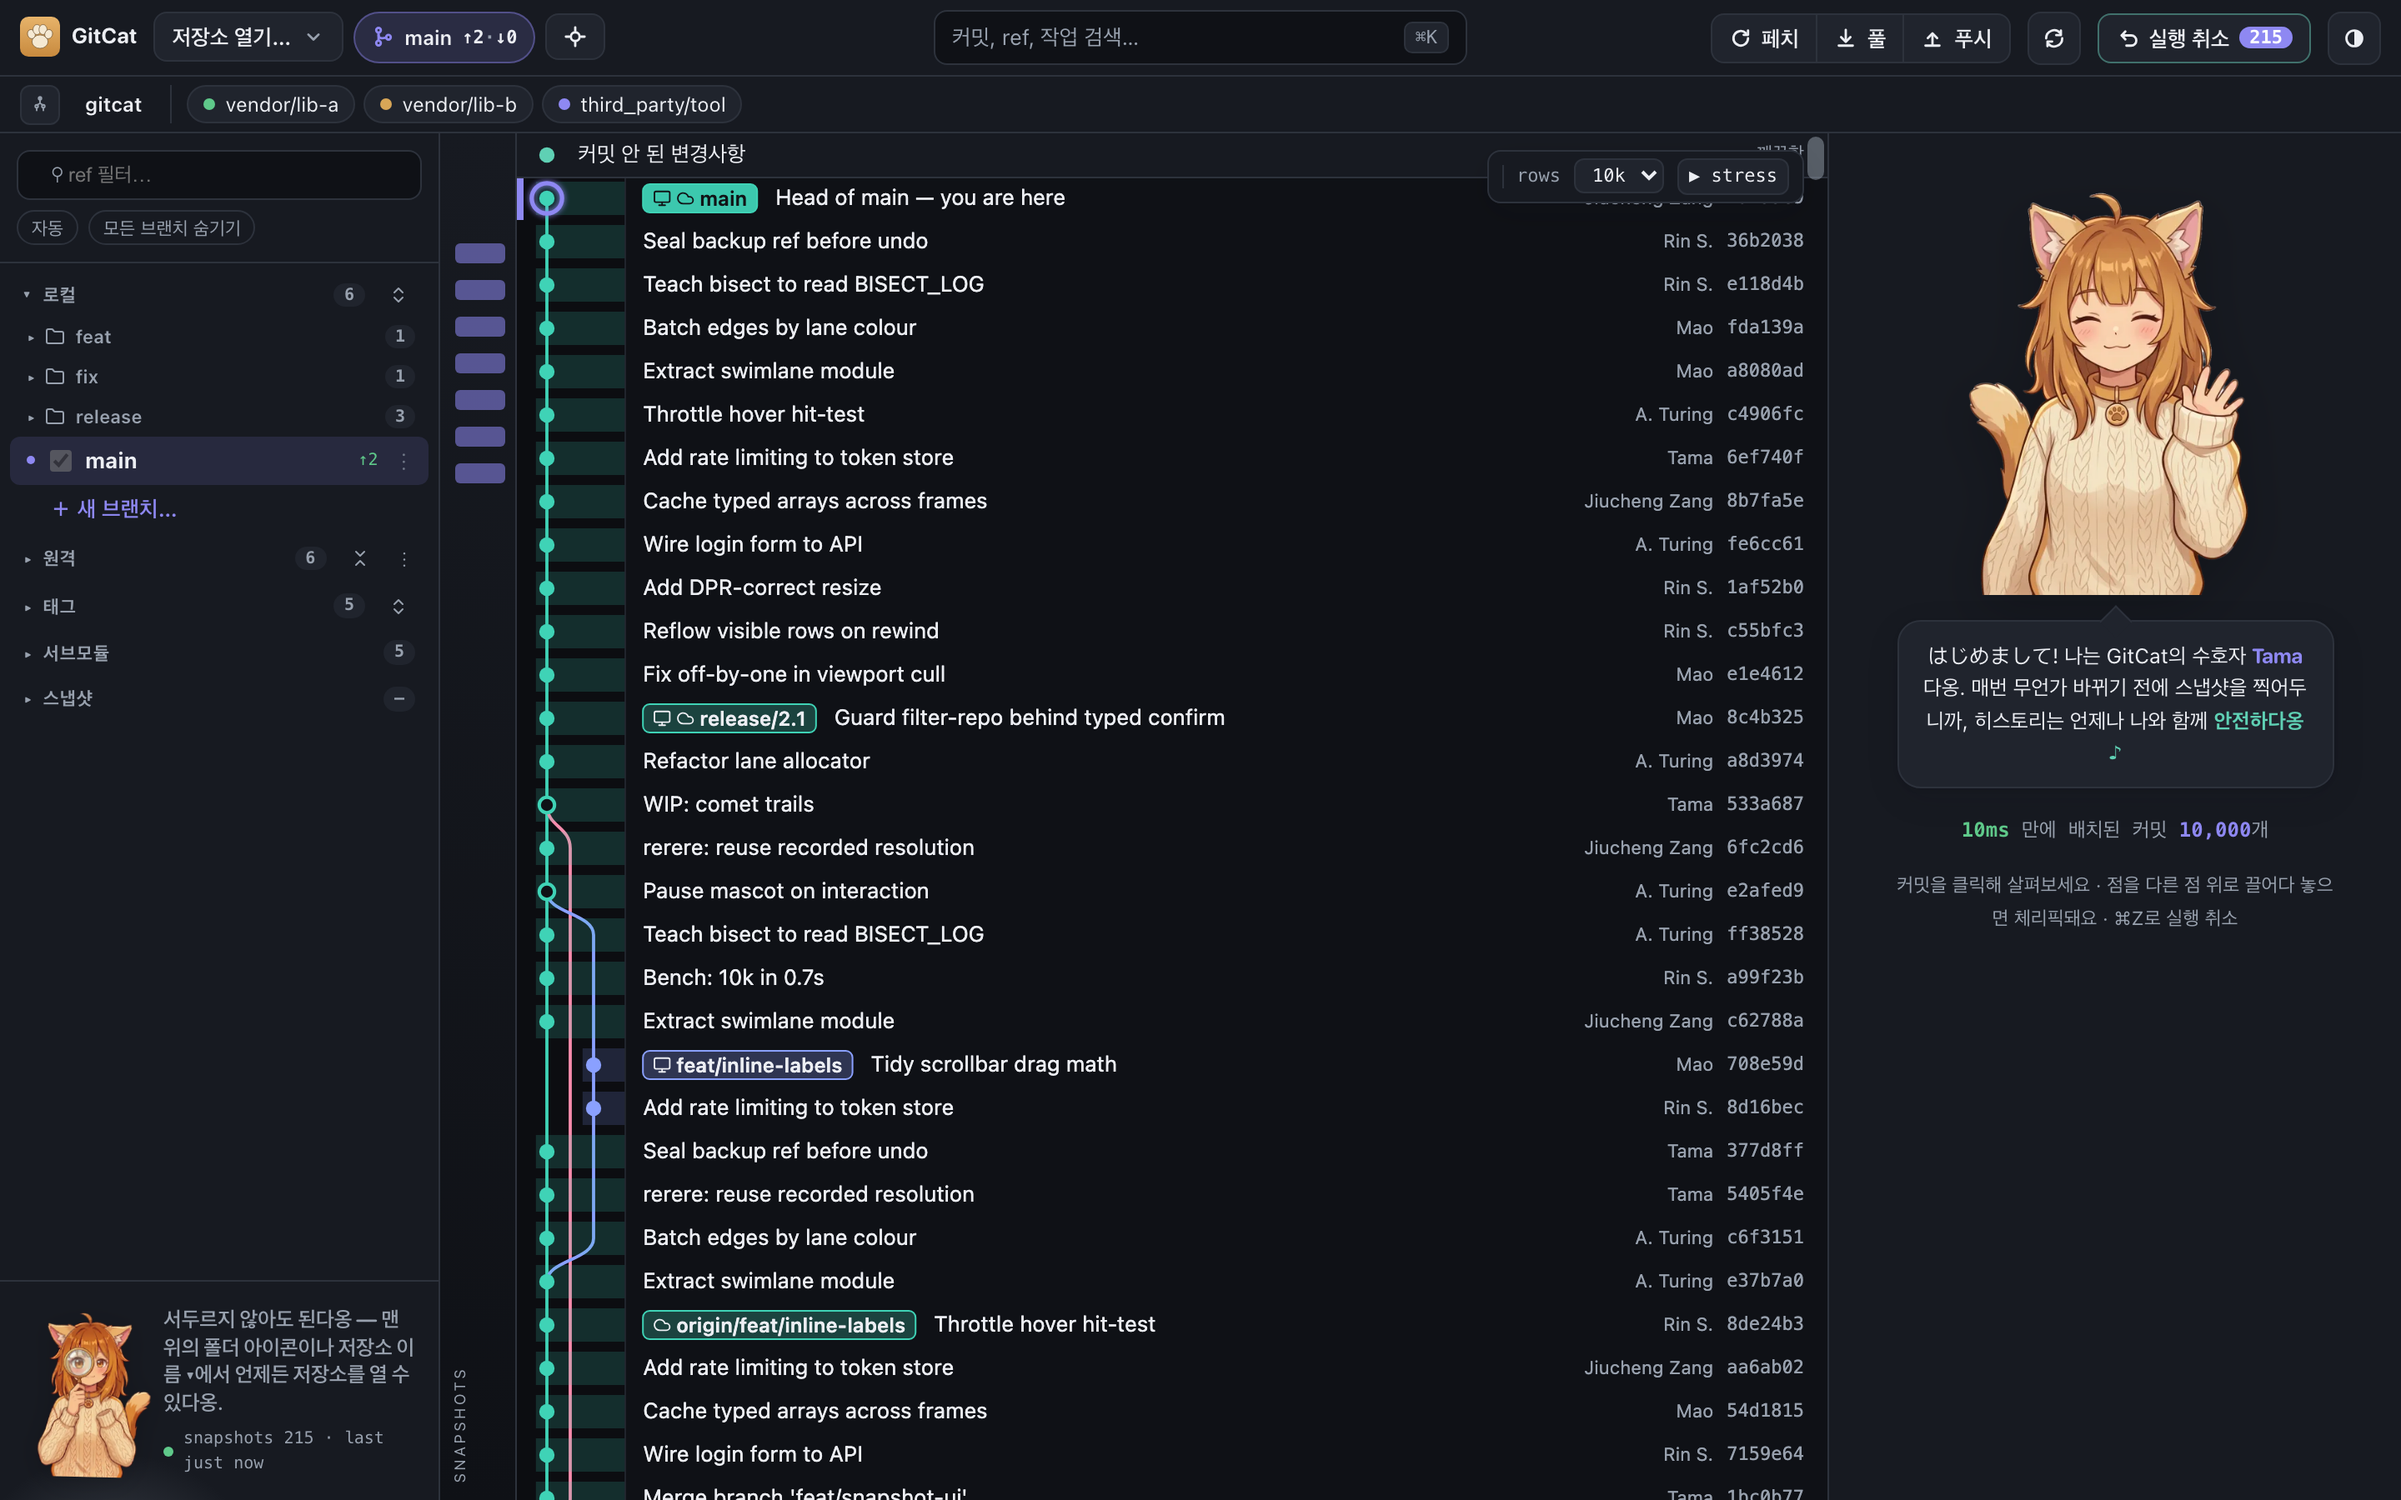
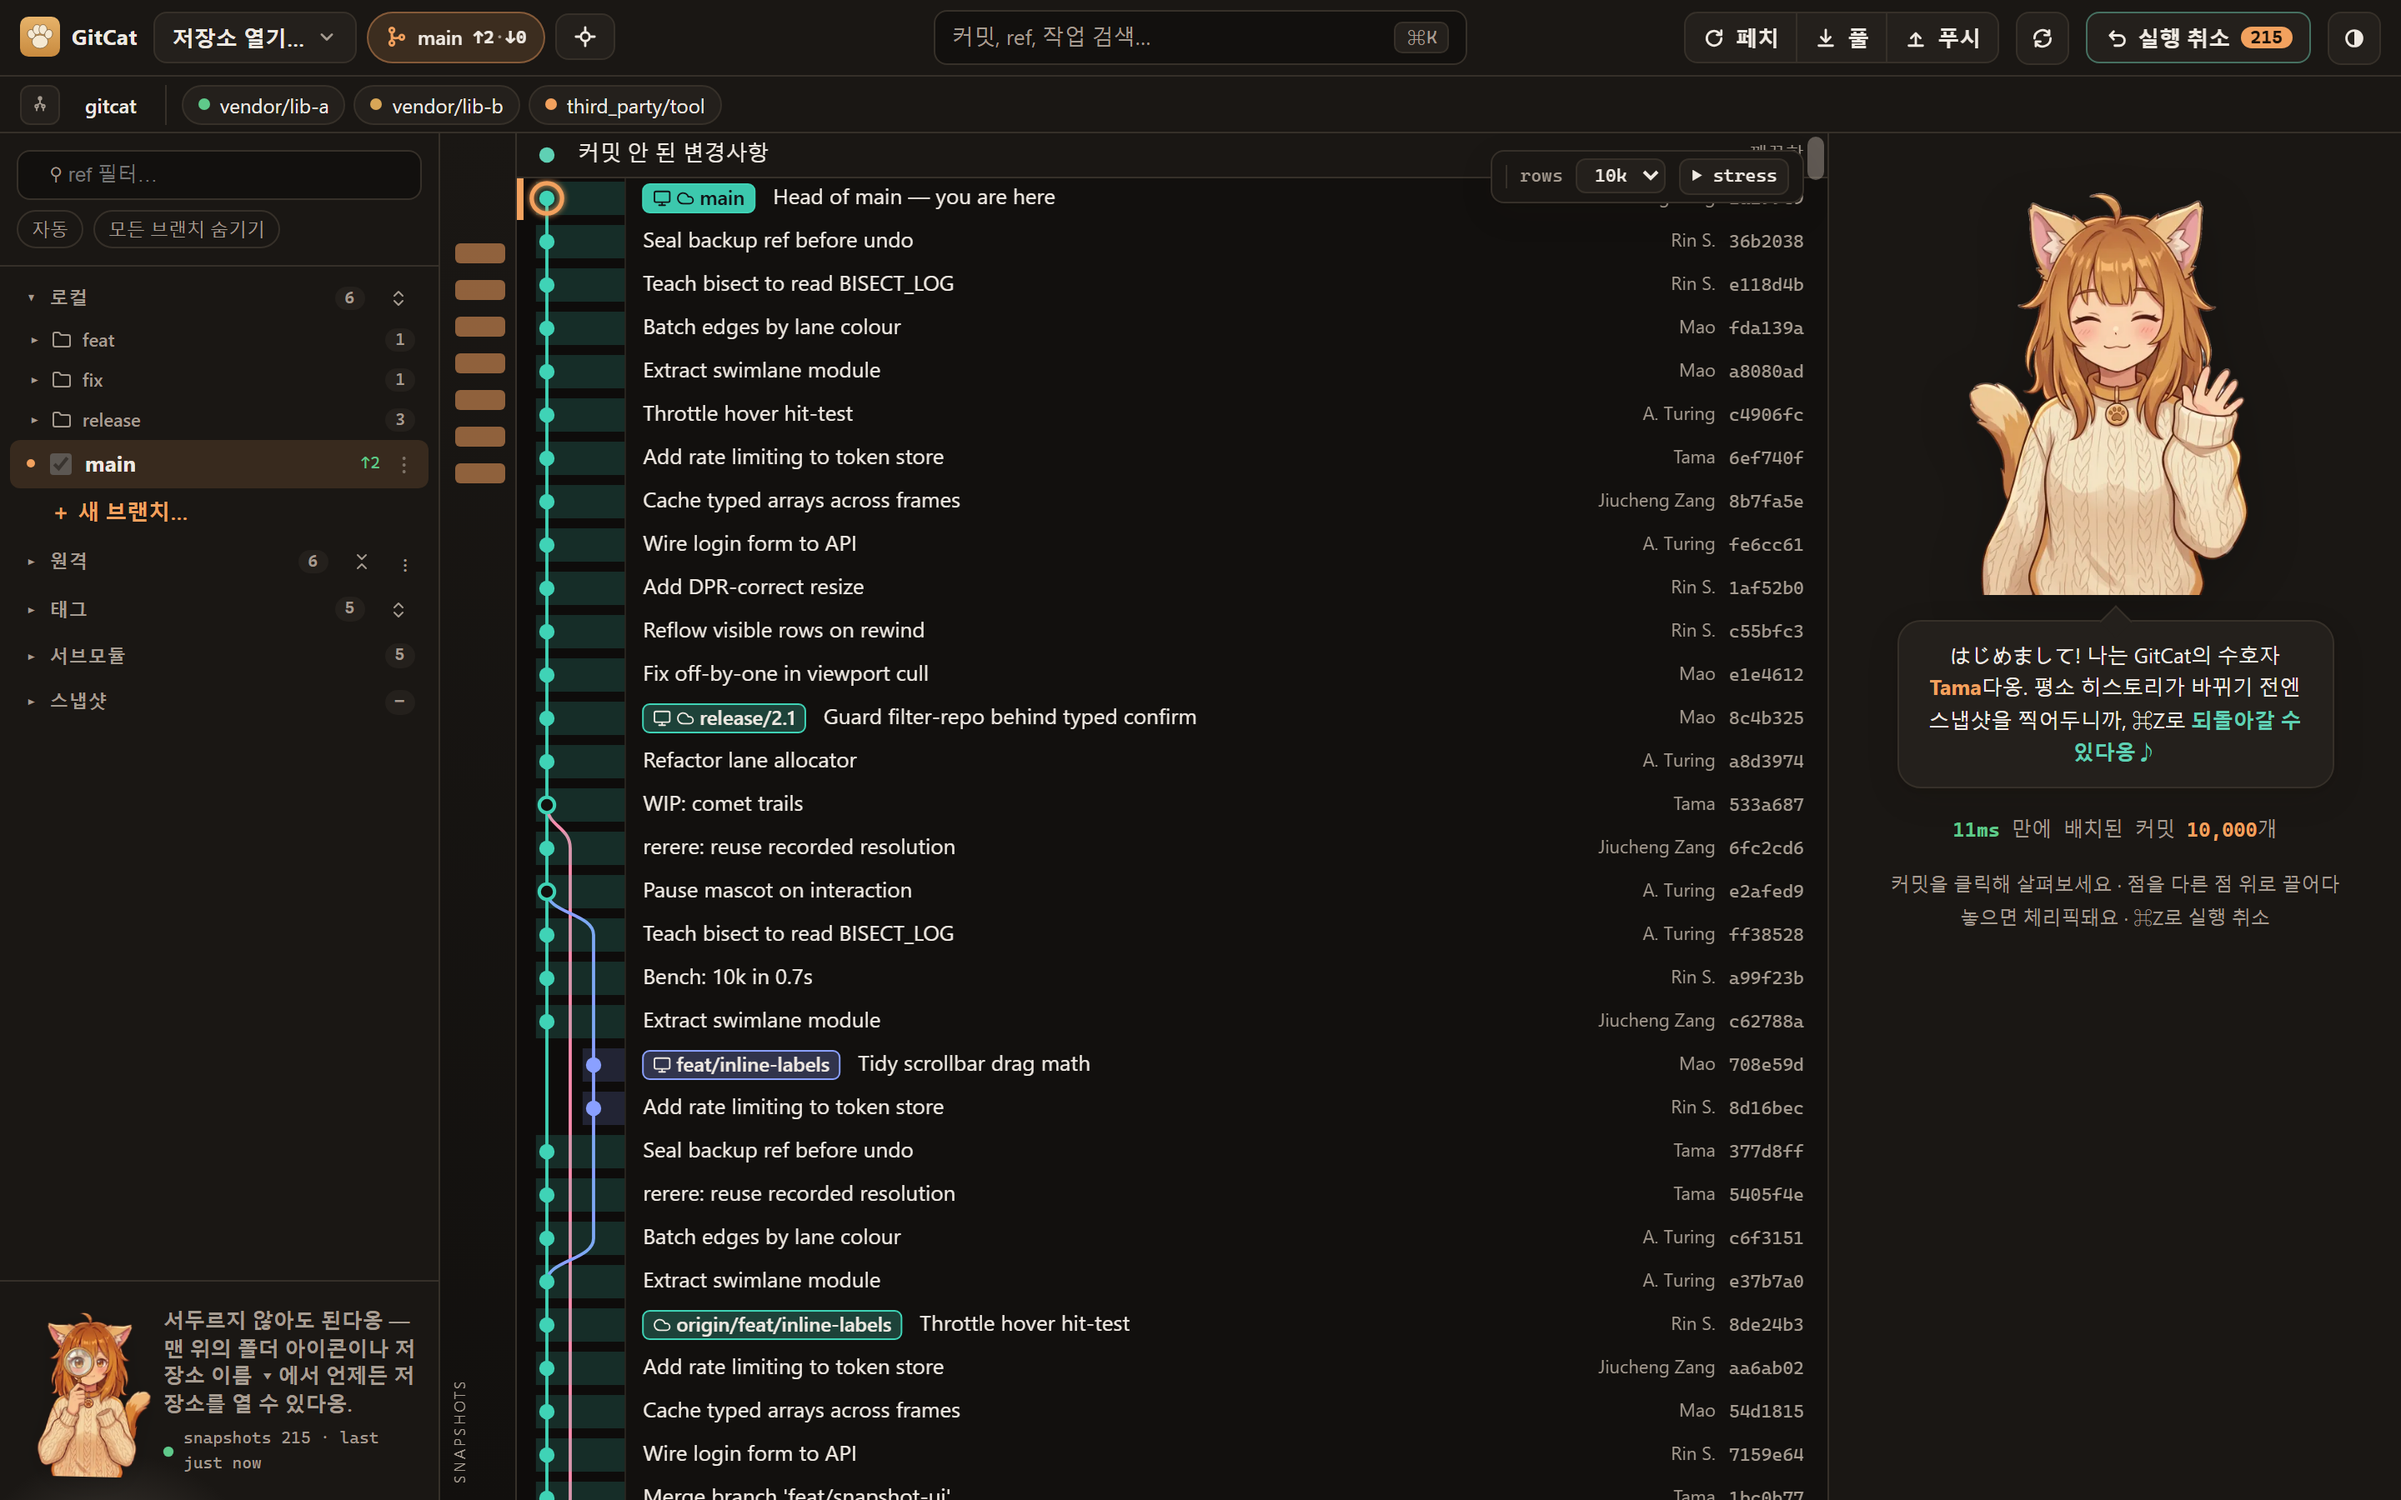
docs: refresh screenshots for the amber theme; README and features for 1.5
Screenshots:
- All seven are regenerated with `pnpm screenshots`. They still showed
  the pre-1.5 indigo theme.
- scripts/screenshots.mjs pins a macOS user agent. Shortcut hints follow
  the platform since #212, so shots taken on Windows read "Ctrl+K" where
  the docs spell "⌘K". The output must not depend on which OS
  regenerates it.
- It also selects a commit whose mock signature reads "good". Design
  mode's badge is a per-row mock, and the fixed click landed on a "Bad
  signature" row in the hero detail shot.

README and docs/features.md add what 1.5 brought:
- verified signatures (README only; features.md already had them);
- the diff pop-out window;
- partial clones;
- Ctrl+K on Windows/Linux;
- `gitcat --help` and `gitcat -- <path>`;
- the in-app plugin Browse tab and the `staged` command context.

diff --git a/docs/features.md b/docs/features.md
@@ -8,9 +8,9 @@ GitCat is built around one idea: every operation that touches your history shoul
 - **Instant everyday operations** — switching branches, creating/renaming/deleting a branch or tag, and staging don't re-walk the whole history: the graph recognises the commit set is unchanged and updates its refs in place, so a checkout on a 150k-commit repo is immediate rather than a multi-second reload. Anything that genuinely adds or removes commits (commit, merge, pull, …) still does a full, correct reload.
 - **Orientation at a glance** — a dedicated left branch/tag column keeps ref labels out of the message text, the current **HEAD wears a clear "you are here" marker** (an accent ring on its dot plus a bar down its row), and every commit already merged into your current branch is drawn dimmed so unmerged work stands out. `⌘⇧H` (or the crosshair button in the top bar) recentres the graph on HEAD from wherever you've scrolled.
 - **Branch actions on the graph itself** — right-click a branch or tag label to check out, rename, or delete it (or check out a remote-tracking branch), a menu separate from the commit right-click menu; hover any label to see its full name when it's truncated.
-- **Full commit detail panel** — select a commit to see its full detail across two tabs: **Commit** (an author/committer split, so you can actually tell a rebase or cherry-pick apart from the original commit, plus the commit's signature status — verified by git itself, so GPG, SSH and X.509 signatures all work: good, good-but-untrusted key, expired, bad, not verifiable (e.g. no key or allowed-signers file), or unsigned, with the signer and key on hover; checked only for the selected commit, in the background) and **Changes** (a diffstat, a file tree, and a syntax-highlighted diff that can expand to a full-page view — with a resizable file list and full paths on hover) — for reading a real changeset comfortably.
+- **Full commit detail panel** — select a commit to see its full detail across two tabs: **Commit** (an author/committer split, so you can actually tell a rebase or cherry-pick apart from the original commit, plus the commit's signature status — verified by git itself, so GPG, SSH and X.509 signatures all work: good, good-but-untrusted key, expired, bad, not verifiable (e.g. no key or allowed-signers file), or unsigned, with the signer and key on hover; checked only for the selected commit, in the background) and **Changes** (a diffstat, a file tree, and a syntax-highlighted diff that can expand to a full-page view, or pop out into a window of its own (diff only: no sidebar or graph) to read next to your work — with a resizable file list and full paths on hover) — for reading a real changeset comfortably.
 - **Image and PDF diffs** — a binary change isn't just "Binary files differ": images and PDFs get a real side-by-side before/after preview, with a zoom lightbox and a download button for either side. PDFs are rasterized by PDFium in the Rust core rather than in the webview, so a large document doesn't freeze the UI.
-- **⌘K command palette** — fuzzy search across commits and refs (including branches that aren't currently shown in the sidebar — pick one and it appears on the graph), quick actions for Bisect, Reflog, Rerere, and Plumbing, and an in-app **Help** page, all without leaving the keyboard.
+- **⌘K command palette** (Ctrl+K on Windows/Linux; every shortcut hint in the app is spelled for your platform) — fuzzy search across commits and refs (including branches that aren't currently shown in the sidebar — pick one and it appears on the graph), quick actions for Bisect, Reflog, Rerere, and Plumbing, and an in-app **Help** page, all without leaving the keyboard.
 - **Vim-style keyboard navigation** — `j`/`k` to move a row at a time, `gg`/`G` to jump to the top or bottom of the graph, `Ctrl-D`/`Ctrl-U` to page through it, and `/` to search, all without touching the mouse.
 - **git blame** — a line-annotation view with per-hunk attribution (commit SHA and author), an ignore-whitespace toggle, and it follows the file's rename history automatically.
 - **Per-file history** — browse a single file's commits with rename-following, like `git log --follow`: a renamed file's history continues seamlessly under its old path instead of stopping cold at the rename.
@@ -63,6 +63,8 @@ GitCat is built around one idea: every operation that touches your history shoul
 - A real native app menu (File / Repository / Edit / View / Tools / Window / Help) and About panel — not just a default OS stub.
 - **Works with repos on a WSL path** (`\\wsl.localhost\<distro>\...`) — remote operations (fetch/pull/push, submodules) route through the distro's own git, so credentials resolve the way they would inside WSL itself, not against Windows'.
 - A **Tools** menu (and matching ⌘K actions) for Bisect, Reflog, Rerere, Plumbing, Manage Remotes, Pickaxe search, External Tools, Dangling Commits recovery, Repo file editors, and Patch export/apply, each opening on demand instead of sitting in a permanent panel.
+- **Partial clones** (`git clone --filter=blob:none`) — diffs, previews, blame and file history fetch the file contents they need on demand, in one batch, from the promisor remote; offline, you get a clear message instead of "object not found".
+- **`gitcat` on your PATH** — `gitcat .` or `gitcat <path>` opens a repo from the terminal (`gitcat -- <path>` for a path starting with `-`); `gitcat --version` and `gitcat --help` print and exit.
 - **Repo file editors** — view and edit `.gitignore` and `.mailmap` right inside GitCat, no dropping to a terminal or another editor required.
 - Dark theme by default, with a light theme one click away.
 - **Eight Tama expressions** reacting to what's actually happening — searching, thinking, celebrating, or genuinely alarmed when you're about to do something you can't take back — now wired into every relevant moment across the app, not just a couple of modals: Reflog Rescue, Dangling-Object Recovery, Plumbing, Pickaxe Search, and the Interactive Rebase planner all get mascot art, and filter-repo/conflict-resolution shows a genuine "thinking" face while it works instead of freezing on one expression the whole time.

diff --git a/README.md b/README.md
@@ -25,12 +25,13 @@ Every Git GUI makes it easy to run a dangerous command. GitCat is built so you c
 
 - **Fast commit graph** — git2 reads and a Rust swimlane layout on a virtualized canvas, no depth cap. 150k commits scroll smoothly with the text still readable.
 - **Everyday git, made safe** — stage by file, hunk or line; commit, stash, branch, tag, checkout; fetch / pull / push; merge, cherry-pick, revert, and rebase (linear plus a drag-to-reorder planner), behind a real 3-way conflict resolver.
-- **Diffs that aren't just text** — syntax highlighting, plus side-by-side before/after previews for images and PDFs, rendered natively and zoomable.
-- **The deep cuts** — submodules, patch export/apply, `git bisect`, `git blame` with rename-following, per-file history, author and pickaxe search, a `git-filter-repo` wizard, external diff/merge tools, reflog rescue and dangling-object recovery.
-- **⌘K everything** — fuzzy search across commits, refs and actions, vim-style keys, and a real native menu.
-- **Plugins** *(1.1)* — ⌘K commands, hooks, side panels, named tools, and Tama skins and reactions. Browse ready-made ones in the community [**plugin index**](https://github.com/zangjiucheng/gitcat-plugins).
+- **Diffs that aren't just text** — syntax highlighting, plus side-by-side before/after previews for images and PDFs, rendered natively and zoomable. Pop any commit's diff out into **its own window** to read it next to your work.
+- **Signatures Git actually verified** — GPG, SSH and X.509 commit signatures checked by Git itself, so the badge reads good, untrusted, expired, bad or not verified, never a guess.
+- **The deep cuts** — submodules, patch export/apply, `git bisect`, `git blame` with rename-following, per-file history, author and pickaxe search, a `git-filter-repo` wizard, external diff/merge tools, reflog rescue and dangling-object recovery. Partial clones (`--filter=blob:none`) work too, fetching file contents on demand.
+- **⌘K everything** (Ctrl+K on Windows/Linux) — fuzzy search across commits, refs and actions, vim-style keys, and a real native menu.
+- **Plugins** — ⌘K commands, hooks, side panels, syntax grammars, named tools, and Tama skins and reactions. Commands can lint exactly what you've staged on every platform, and Luau plugins run in a sandbox with an allowlisted `git()`. Browse and install ready-made ones from inside the app (**Tools ▸ Plugins… → Browse**), backed by the community [**plugin index**](https://github.com/zangjiucheng/gitcat-plugins).
 - **English, 中文 & 한국어** — the whole interface, switchable live with no reload.
-- **`gitcat .`** — open a repo from your terminal the way `code .` does. WSL-aware.
+- **`gitcat .`** — open a repo from your terminal the way `code .` does (`gitcat --help` for the rest). WSL-aware.
 
 Full list: **[Features](https://zangjiucheng.github.io/GitCat/features)**.
 
